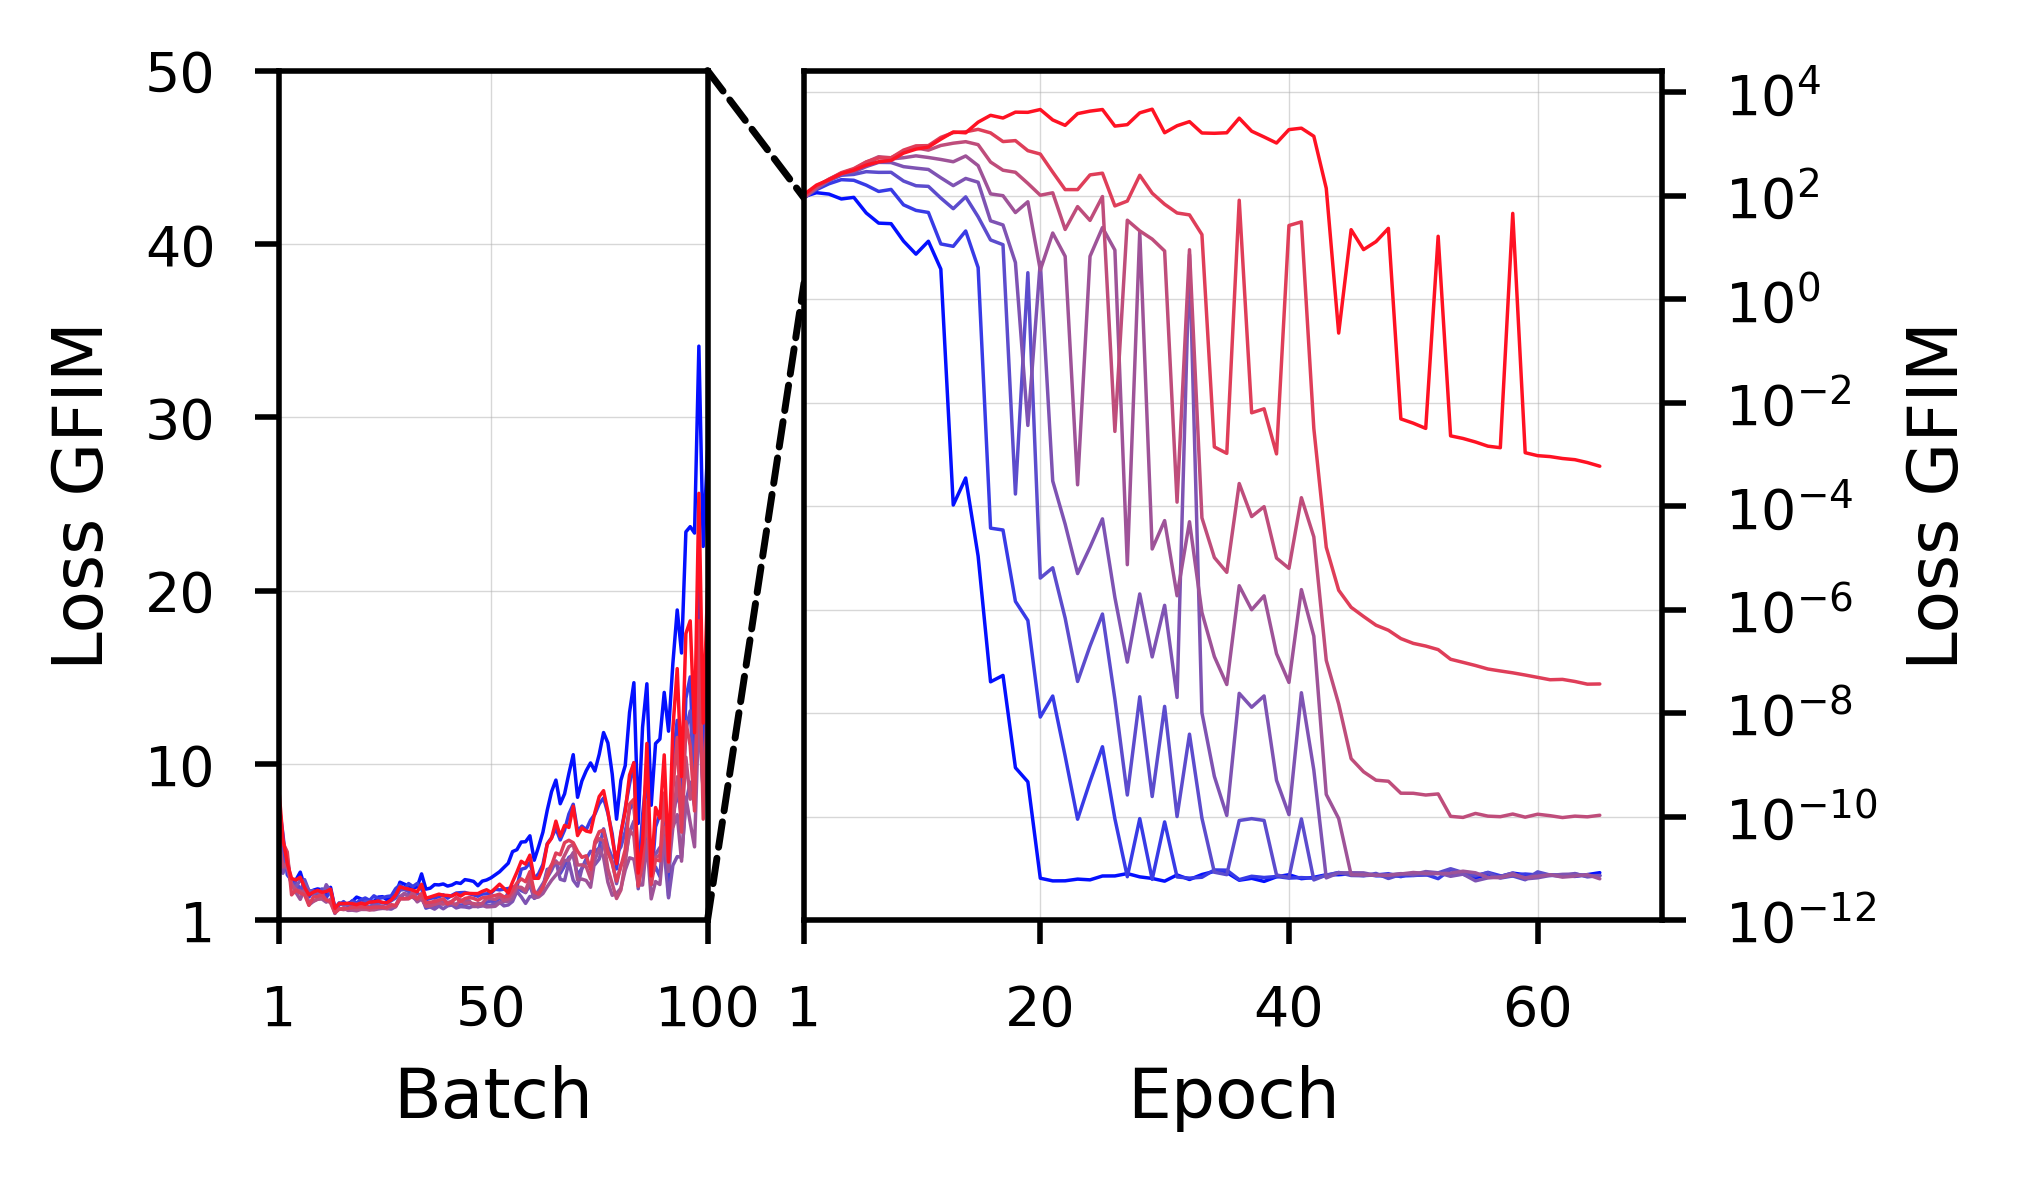
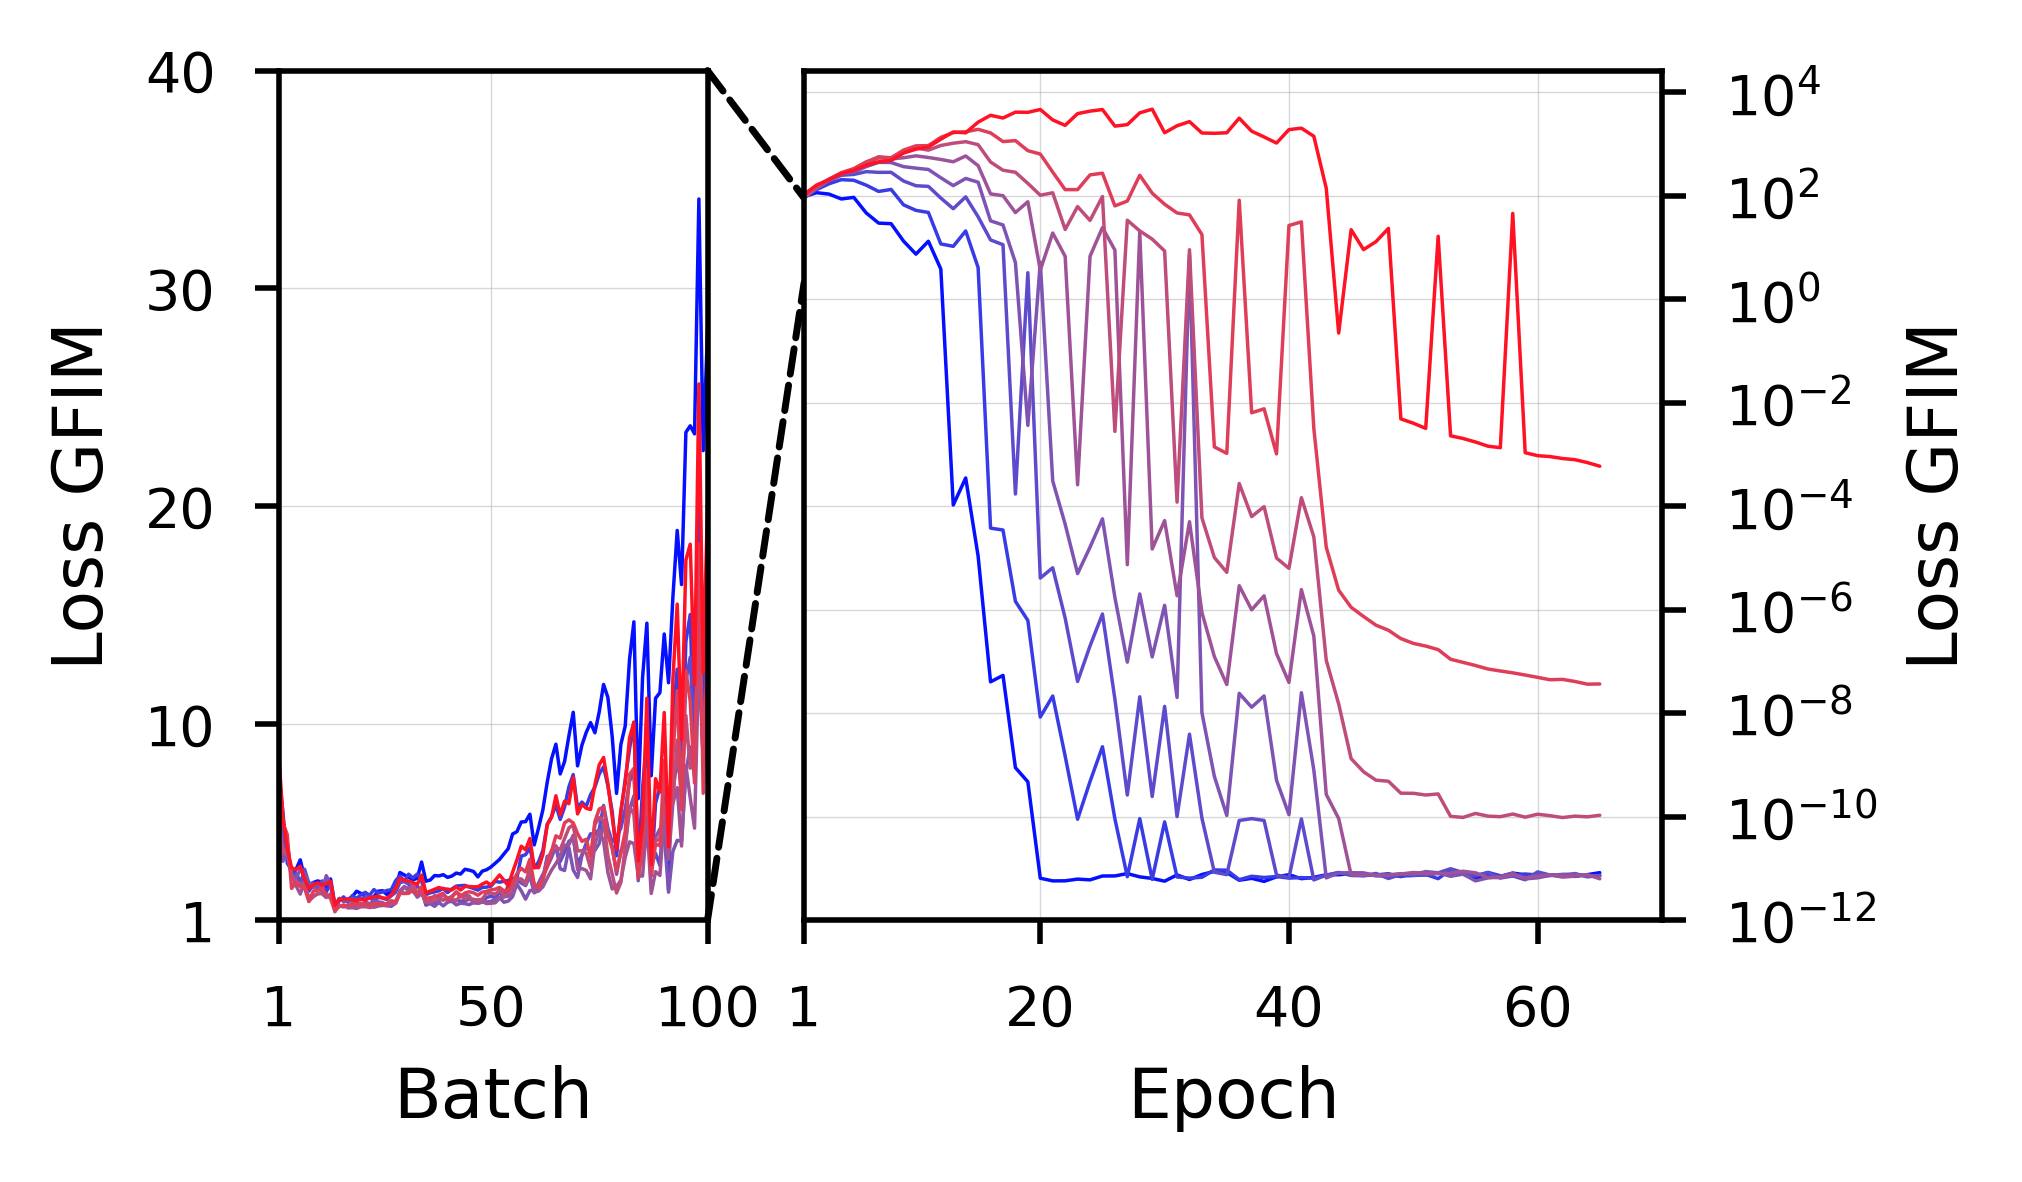
new T1

diff --git a/graphs.py b/graphs.py
@@ -111,8 +111,8 @@ def make_T1GFIM():
     
     #plt.ylabel("T1 GFIM")
     ax1.set_ylabel("Loss GFIM")
-    ax1.set_ylim([1,50])
-    ax1.yaxis.set_ticks([1,10,20,30,40,50])
+    ax1.set_ylim([1,40])
+    ax1.yaxis.set_ticks([1,10,20,30,40])
 
     ax1.set_xlabel("Batch")
     ax1.set_xlim([1,100])
@@ -901,5 +901,5 @@ def make_VIT000001():
     fig.savefig("Pics/VIT000001.png", bbox_inches='tight', dpi=500)
 
 #make_VIT00001()
-make_VIT000001()
+make_T1GFIM()
 #make_VIT()
